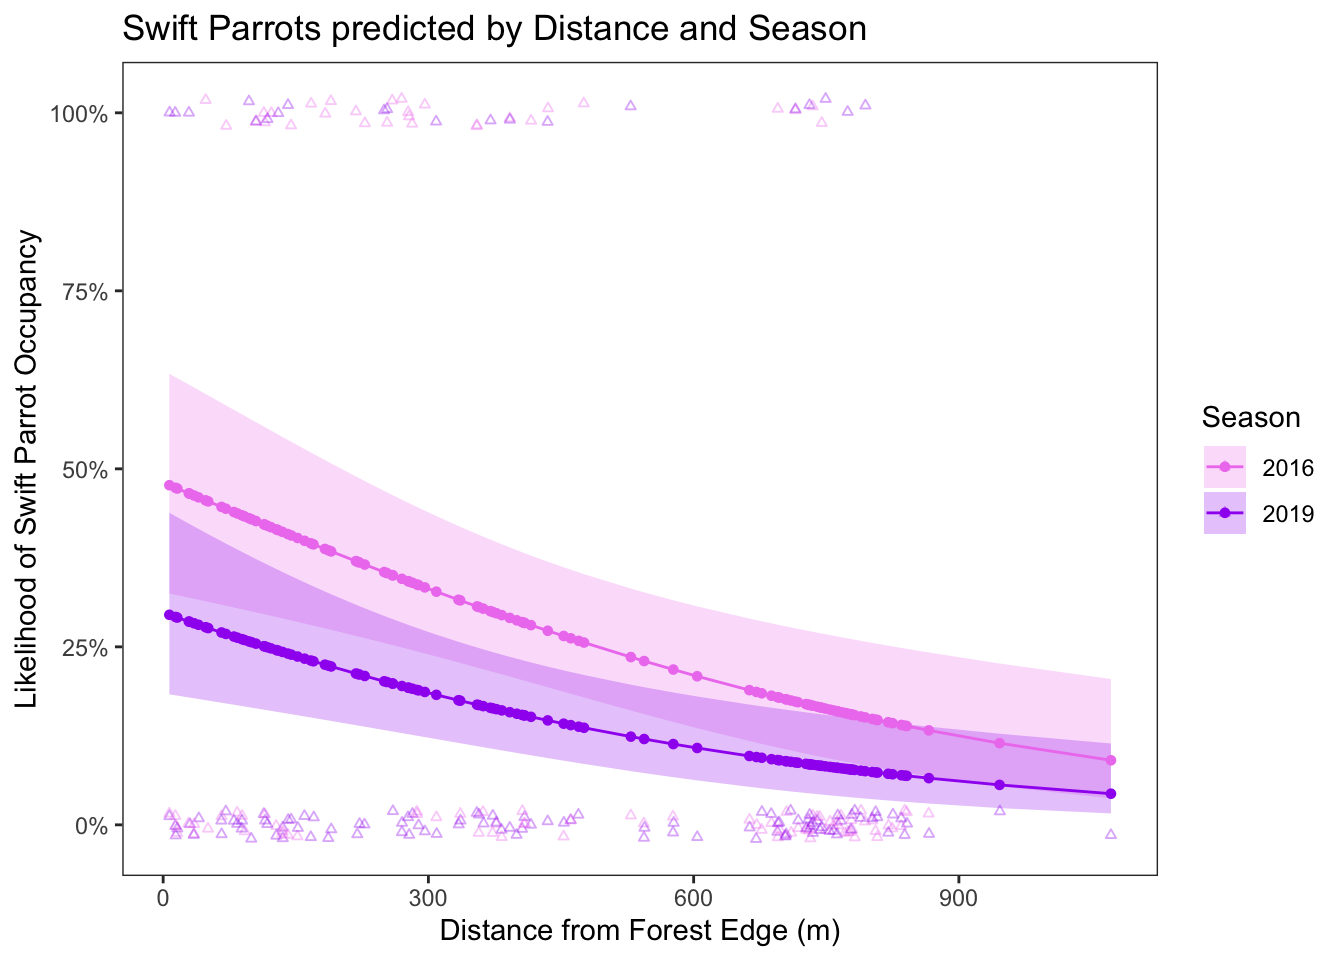
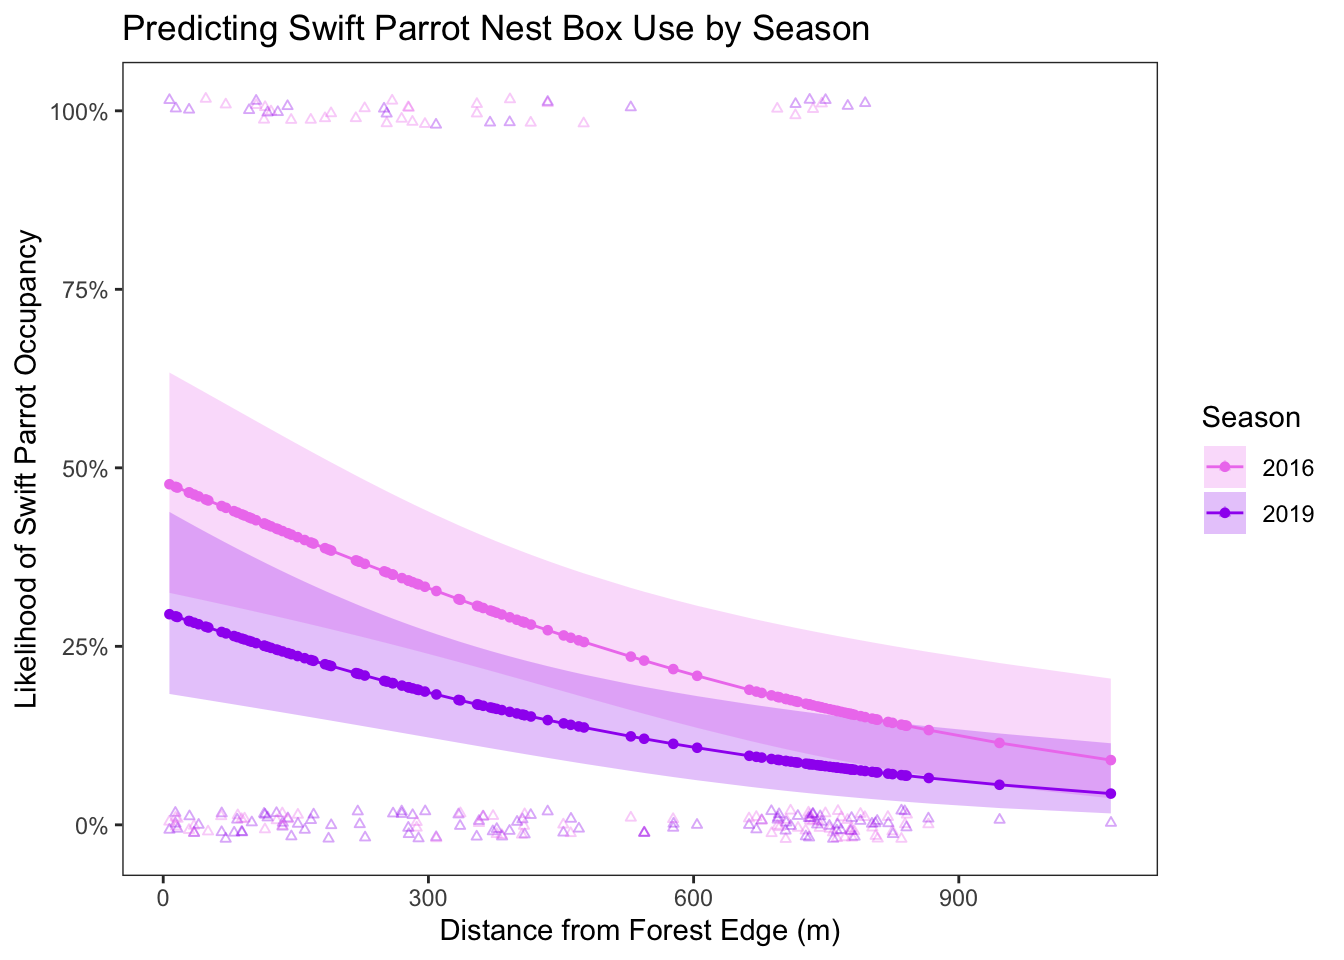
updates

diff --git a/code/final.html b/code/final.html
@@ -159,13 +159,14 @@ pre > code.sourceCode > span > a:first-child::before { text-decoration: underlin
 <span id="cb1-6"><a href="#cb1-6" aria-hidden="true" tabindex="-1"></a><span class="fu">library</span>(ggeffects) <span class="co"># getting model predictions</span></span>
 <span id="cb1-7"><a href="#cb1-7" aria-hidden="true" tabindex="-1"></a><span class="fu">library</span>(scales) <span class="co"># modifying axis labels</span></span>
 <span id="cb1-8"><a href="#cb1-8" aria-hidden="true" tabindex="-1"></a></span>
-<span id="cb1-9"><a href="#cb1-9" aria-hidden="true" tabindex="-1"></a><span class="co"># read in your data here</span></span>
-<span id="cb1-10"><a href="#cb1-10" aria-hidden="true" tabindex="-1"></a>sst <span class="ot">&lt;-</span> <span class="fu">read.csv</span>(<span class="fu">here</span>(<span class="st">"data"</span>, <span class="st">"SST_update2023.csv"</span>))</span>
-<span id="cb1-11"><a href="#cb1-11" aria-hidden="true" tabindex="-1"></a></span>
-<span id="cb1-12"><a href="#cb1-12" aria-hidden="true" tabindex="-1"></a><span class="co"># read in your data here</span></span>
-<span id="cb1-13"><a href="#cb1-13" aria-hidden="true" tabindex="-1"></a>nest_boxes <span class="ot">&lt;-</span>  <span class="fu">read.csv</span>(</span>
-<span id="cb1-14"><a href="#cb1-14" aria-hidden="true" tabindex="-1"></a>  <span class="co"># file path</span></span>
-<span id="cb1-15"><a href="#cb1-15" aria-hidden="true" tabindex="-1"></a>  <span class="fu">here</span>(<span class="st">"data"</span>, <span class="st">"occdist.csv"</span>))</span></code><button title="Copy to Clipboard" class="code-copy-button"><i class="bi"></i></button></pre></div>
+<span id="cb1-9"><a href="#cb1-9" aria-hidden="true" tabindex="-1"></a></span>
+<span id="cb1-10"><a href="#cb1-10" aria-hidden="true" tabindex="-1"></a><span class="co"># read in your data here</span></span>
+<span id="cb1-11"><a href="#cb1-11" aria-hidden="true" tabindex="-1"></a>sst <span class="ot">&lt;-</span> <span class="fu">read.csv</span>(<span class="fu">here</span>(<span class="st">"data"</span>, <span class="st">"SST_update2023.csv"</span>))</span>
+<span id="cb1-12"><a href="#cb1-12" aria-hidden="true" tabindex="-1"></a></span>
+<span id="cb1-13"><a href="#cb1-13" aria-hidden="true" tabindex="-1"></a><span class="co"># read in your data here</span></span>
+<span id="cb1-14"><a href="#cb1-14" aria-hidden="true" tabindex="-1"></a>nest_boxes <span class="ot">&lt;-</span>  <span class="fu">read.csv</span>(</span>
+<span id="cb1-15"><a href="#cb1-15" aria-hidden="true" tabindex="-1"></a>  <span class="co"># file path</span></span>
+<span id="cb1-16"><a href="#cb1-16" aria-hidden="true" tabindex="-1"></a>  <span class="fu">here</span>(<span class="st">"data"</span>, <span class="st">"occdist.csv"</span>))</span></code><button title="Copy to Clipboard" class="code-copy-button"><i class="bi"></i></button></pre></div>
 </div>
 </section>
 <section id="problem-1.-research-writing" class="level1">
@@ -212,11 +213,11 @@ pre > code.sourceCode > span > a:first-child::before { text-decoration: underlin
 <pre><code># A tibble: 5 × 3
    year month mean_monthly_sst
   &lt;dbl&gt; &lt;ord&gt;            &lt;dbl&gt;
-1  2021 Dec               14.4
-2  2018 Oct               18.4
-3  2018 Sep               18.2
-4  2023 Feb               13.0
-5  2022 Mar               13.3</code></pre>
+1  2022 Mar               13.3
+2  2019 Nov               16.8
+3  2021 Feb               13.1
+4  2018 Apr               12.8
+5  2021 Apr               13.1</code></pre>
 </div>
 <div class="sourceCode cell-code" id="cb4"><pre class="sourceCode r code-with-copy"><code class="sourceCode r"><span id="cb4-1"><a href="#cb4-1" aria-hidden="true" tabindex="-1"></a><span class="co"># show the structure of the cleaned data</span></span>
 <span id="cb4-2"><a href="#cb4-2" aria-hidden="true" tabindex="-1"></a><span class="fu">str</span>(sst_clean)</span></code><button title="Copy to Clipboard" class="code-copy-button"><i class="bi"></i></button></pre></div>
@@ -231,31 +232,29 @@ pre > code.sourceCode > span > a:first-child::before { text-decoration: underlin
 <section id="b.-visualize-the-data" class="level2">
 <h2 class="anchored" data-anchor-id="b.-visualize-the-data">b. Visualize the data</h2>
 <div class="cell">
-<div class="sourceCode cell-code" id="cb6"><pre class="sourceCode r code-with-copy"><code class="sourceCode r"><span id="cb6-1"><a href="#cb6-1" aria-hidden="true" tabindex="-1"></a><span class="fu">library</span>(ggplot2)</span>
-<span id="cb6-2"><a href="#cb6-2" aria-hidden="true" tabindex="-1"></a></span>
-<span id="cb6-3"><a href="#cb6-3" aria-hidden="true" tabindex="-1"></a>sst_visual <span class="ot">&lt;-</span> <span class="fu">ggplot</span>(<span class="at">data =</span> sst_clean,  <span class="co"># new data called sst_visual</span></span>
-<span id="cb6-4"><a href="#cb6-4" aria-hidden="true" tabindex="-1"></a>       <span class="fu">aes</span>(<span class="at">x =</span> month, <span class="co"># month on x-axis</span></span>
-<span id="cb6-5"><a href="#cb6-5" aria-hidden="true" tabindex="-1"></a>           <span class="at">y =</span> mean_monthly_sst, <span class="co"># year on y-axis</span></span>
-<span id="cb6-6"><a href="#cb6-6" aria-hidden="true" tabindex="-1"></a>           <span class="at">group =</span> <span class="fu">factor</span>(year), <span class="co"># group by year</span></span>
-<span id="cb6-7"><a href="#cb6-7" aria-hidden="true" tabindex="-1"></a>           <span class="at">color =</span> <span class="fu">factor</span>(year))) <span class="sc">+</span> <span class="co"># color by year</span></span>
-<span id="cb6-8"><a href="#cb6-8" aria-hidden="true" tabindex="-1"></a>  <span class="fu">geom_line</span>() <span class="sc">+</span>                          </span>
-<span id="cb6-9"><a href="#cb6-9" aria-hidden="true" tabindex="-1"></a>  <span class="fu">geom_point</span>() <span class="sc">+</span>                         </span>
-<span id="cb6-10"><a href="#cb6-10" aria-hidden="true" tabindex="-1"></a>  <span class="fu">scale_color_manual</span>(<span class="at">name =</span> <span class="st">"Year"</span>, <span class="co"># manually assign colors by group</span></span>
-<span id="cb6-11"><a href="#cb6-11" aria-hidden="true" tabindex="-1"></a>    <span class="at">values =</span> <span class="fu">c</span>(<span class="st">"2018"</span> <span class="ot">=</span> <span class="st">"#E6E6FA"</span>,</span>
-<span id="cb6-12"><a href="#cb6-12" aria-hidden="true" tabindex="-1"></a>       <span class="st">"2019"</span> <span class="ot">=</span> <span class="st">"#D8BFD8"</span>,</span>
-<span id="cb6-13"><a href="#cb6-13" aria-hidden="true" tabindex="-1"></a>       <span class="st">"2020"</span> <span class="ot">=</span> <span class="st">"#DDA0DD"</span>,</span>
-<span id="cb6-14"><a href="#cb6-14" aria-hidden="true" tabindex="-1"></a>       <span class="st">"2021"</span> <span class="ot">=</span> <span class="st">"#DA70D6"</span>,</span>
-<span id="cb6-15"><a href="#cb6-15" aria-hidden="true" tabindex="-1"></a>       <span class="st">"2022"</span> <span class="ot">=</span> <span class="st">"#BA55D3"</span>,</span>
-<span id="cb6-16"><a href="#cb6-16" aria-hidden="true" tabindex="-1"></a>       <span class="st">"2023"</span> <span class="ot">=</span> <span class="st">"#8A2BE2"</span>)) <span class="sc">+</span></span>
-<span id="cb6-17"><a href="#cb6-17" aria-hidden="true" tabindex="-1"></a>  <span class="fu">labs</span>(<span class="at">x =</span> <span class="st">"Month"</span>, <span class="co"># label the title on x-axis</span></span>
-<span id="cb6-18"><a href="#cb6-18" aria-hidden="true" tabindex="-1"></a>    <span class="at">y =</span> <span class="st">"Mean Monthly Sea Surface Temperature (°C)"</span>) <span class="sc">+</span> <span class="co"># label y-axis title</span></span>
-<span id="cb6-19"><a href="#cb6-19" aria-hidden="true" tabindex="-1"></a>  <span class="fu">theme_minimal</span>() <span class="sc">+</span>                             </span>
-<span id="cb6-20"><a href="#cb6-20" aria-hidden="true" tabindex="-1"></a>  <span class="fu">theme</span>(<span class="at">legend.position =</span> <span class="fu">c</span>(<span class="fl">0.15</span>, <span class="fl">0.65</span>), <span class="co"># position legend lower left</span></span>
-<span id="cb6-21"><a href="#cb6-21" aria-hidden="true" tabindex="-1"></a>        <span class="at">plot.background =</span> <span class="fu">element_rect</span>(<span class="at">fill =</span> <span class="st">"white"</span>), <span class="co"># background white</span></span>
-<span id="cb6-22"><a href="#cb6-22" aria-hidden="true" tabindex="-1"></a>        <span class="at">panel.grid.major =</span> <span class="fu">element_blank</span>(),   <span class="co"># remove major grid lines</span></span>
-<span id="cb6-23"><a href="#cb6-23" aria-hidden="true" tabindex="-1"></a>        <span class="at">panel.grid.minor =</span> <span class="fu">element_blank</span>()) <span class="co">#remove minor grid lines</span></span>
-<span id="cb6-24"><a href="#cb6-24" aria-hidden="true" tabindex="-1"></a></span>
-<span id="cb6-25"><a href="#cb6-25" aria-hidden="true" tabindex="-1"></a>sst_visual</span></code><button title="Copy to Clipboard" class="code-copy-button"><i class="bi"></i></button></pre></div>
+<div class="sourceCode cell-code" id="cb6"><pre class="sourceCode r code-with-copy"><code class="sourceCode r"><span id="cb6-1"><a href="#cb6-1" aria-hidden="true" tabindex="-1"></a>sst_visual <span class="ot">&lt;-</span> <span class="fu">ggplot</span>(<span class="at">data =</span> sst_clean,  <span class="co"># new data called sst_visual</span></span>
+<span id="cb6-2"><a href="#cb6-2" aria-hidden="true" tabindex="-1"></a>       <span class="fu">aes</span>(<span class="at">x =</span> month, <span class="co"># month on x-axis</span></span>
+<span id="cb6-3"><a href="#cb6-3" aria-hidden="true" tabindex="-1"></a>           <span class="at">y =</span> mean_monthly_sst, <span class="co"># year on y-axis</span></span>
+<span id="cb6-4"><a href="#cb6-4" aria-hidden="true" tabindex="-1"></a>           <span class="at">group =</span> <span class="fu">factor</span>(year), <span class="co"># group by year</span></span>
+<span id="cb6-5"><a href="#cb6-5" aria-hidden="true" tabindex="-1"></a>           <span class="at">color =</span> <span class="fu">factor</span>(year))) <span class="sc">+</span> <span class="co"># color by year</span></span>
+<span id="cb6-6"><a href="#cb6-6" aria-hidden="true" tabindex="-1"></a>  <span class="fu">geom_line</span>() <span class="sc">+</span>                          </span>
+<span id="cb6-7"><a href="#cb6-7" aria-hidden="true" tabindex="-1"></a>  <span class="fu">geom_point</span>() <span class="sc">+</span>                         </span>
+<span id="cb6-8"><a href="#cb6-8" aria-hidden="true" tabindex="-1"></a>  <span class="fu">scale_color_manual</span>(<span class="at">name =</span> <span class="st">"Year"</span>, <span class="co"># manually assign colors by group</span></span>
+<span id="cb6-9"><a href="#cb6-9" aria-hidden="true" tabindex="-1"></a>    <span class="at">values =</span> <span class="fu">c</span>(<span class="st">"2018"</span> <span class="ot">=</span> <span class="st">"#E6E6FA"</span>,</span>
+<span id="cb6-10"><a href="#cb6-10" aria-hidden="true" tabindex="-1"></a>       <span class="st">"2019"</span> <span class="ot">=</span> <span class="st">"#D8BFD8"</span>,</span>
+<span id="cb6-11"><a href="#cb6-11" aria-hidden="true" tabindex="-1"></a>       <span class="st">"2020"</span> <span class="ot">=</span> <span class="st">"#DDA0DD"</span>,</span>
+<span id="cb6-12"><a href="#cb6-12" aria-hidden="true" tabindex="-1"></a>       <span class="st">"2021"</span> <span class="ot">=</span> <span class="st">"#DA70D6"</span>,</span>
+<span id="cb6-13"><a href="#cb6-13" aria-hidden="true" tabindex="-1"></a>       <span class="st">"2022"</span> <span class="ot">=</span> <span class="st">"#BA55D3"</span>,</span>
+<span id="cb6-14"><a href="#cb6-14" aria-hidden="true" tabindex="-1"></a>       <span class="st">"2023"</span> <span class="ot">=</span> <span class="st">"#8A2BE2"</span>)) <span class="sc">+</span></span>
+<span id="cb6-15"><a href="#cb6-15" aria-hidden="true" tabindex="-1"></a>  <span class="fu">labs</span>(<span class="at">x =</span> <span class="st">"Month"</span>, <span class="co"># label the title on x-axis</span></span>
+<span id="cb6-16"><a href="#cb6-16" aria-hidden="true" tabindex="-1"></a>    <span class="at">y =</span> <span class="st">"Mean Monthly Sea Surface Temperature (°C)"</span>) <span class="sc">+</span> <span class="co"># label y-axis title</span></span>
+<span id="cb6-17"><a href="#cb6-17" aria-hidden="true" tabindex="-1"></a>  <span class="fu">theme_minimal</span>() <span class="sc">+</span>                             </span>
+<span id="cb6-18"><a href="#cb6-18" aria-hidden="true" tabindex="-1"></a>  <span class="fu">theme</span>(<span class="at">legend.position =</span> <span class="fu">c</span>(<span class="fl">0.15</span>, <span class="fl">0.65</span>), <span class="co"># position legend lower left</span></span>
+<span id="cb6-19"><a href="#cb6-19" aria-hidden="true" tabindex="-1"></a>        <span class="at">plot.background =</span> <span class="fu">element_rect</span>(<span class="at">fill =</span> <span class="st">"white"</span>), <span class="co"># background white</span></span>
+<span id="cb6-20"><a href="#cb6-20" aria-hidden="true" tabindex="-1"></a>        <span class="at">panel.grid.major =</span> <span class="fu">element_blank</span>(),   <span class="co"># remove major grid lines</span></span>
+<span id="cb6-21"><a href="#cb6-21" aria-hidden="true" tabindex="-1"></a>        <span class="at">panel.grid.minor =</span> <span class="fu">element_blank</span>()) <span class="co">#remove minor grid lines</span></span>
+<span id="cb6-22"><a href="#cb6-22" aria-hidden="true" tabindex="-1"></a></span>
+<span id="cb6-23"><a href="#cb6-23" aria-hidden="true" tabindex="-1"></a>sst_visual</span></code><button title="Copy to Clipboard" class="code-copy-button"><i class="bi"></i></button></pre></div>
 <div class="cell-output-display">
 <div>
 <figure class="figure">
@@ -407,14 +406,14 @@ mod3  2 236.3744
 mod1  1 238.8318</code></pre>
 </div>
 </div>
-<p>The best model as determined by Akaike’s Information Criterion (AIC) is the saturated model on season (year) and edge distance to the forest for Swift Parrot’s occupancy. This model suggests that the year the nesting occured and the distance influenced whether the Swift Parrots used the boxes.</p>
+<p>The best model as determined by Akaike’s Information Criterion (AIC) is the saturated model on season (year) and edge distance to the forest for Swift Parrot’s occupancy. This model suggests that the year the nesting occurred as well as the distance were part of the influence whether the Swift Parrots used the nest boxes.</p>
 </section>
 <section id="h.-visualize-the-model-predictions" class="level2">
 <h2 class="anchored" data-anchor-id="h.-visualize-the-model-predictions">h. Visualize the model predictions</h2>
 <div class="cell">
-<div class="sourceCode cell-code" id="cb14"><pre class="sourceCode r code-with-copy"><code class="sourceCode r"><span id="cb14-1"><a href="#cb14-1" aria-hidden="true" tabindex="-1"></a><span class="co"># make new object for model predictions</span></span>
+<div class="sourceCode cell-code" id="cb14"><pre class="sourceCode r code-with-copy"><code class="sourceCode r"><span id="cb14-1"><a href="#cb14-1" aria-hidden="true" tabindex="-1"></a><span class="co"># make model prediction as new object</span></span>
 <span id="cb14-2"><a href="#cb14-2" aria-hidden="true" tabindex="-1"></a>model_prediction <span class="ot">&lt;-</span> <span class="fu">ggpredict</span>(mod2, </span>
-<span id="cb14-3"><a href="#cb14-3" aria-hidden="true" tabindex="-1"></a>                              <span class="at">terms =</span> <span class="fu">c</span>(<span class="st">"edge_distance [all]"</span>, <span class="st">"season"</span>)) <span class="co"># season 2016 and 2019</span></span>
+<span id="cb14-3"><a href="#cb14-3" aria-hidden="true" tabindex="-1"></a>                              <span class="at">terms =</span> <span class="fu">c</span>(<span class="st">"edge_distance [all]"</span>, <span class="st">"season"</span>)) <span class="co"># breeding season from 2016 and 2019</span></span>
 <span id="cb14-4"><a href="#cb14-4" aria-hidden="true" tabindex="-1"></a></span>
 <span id="cb14-5"><a href="#cb14-5" aria-hidden="true" tabindex="-1"></a><span class="co"># convert predictions to a data frame</span></span>
 <span id="cb14-6"><a href="#cb14-6" aria-hidden="true" tabindex="-1"></a>model_df <span class="ot">&lt;-</span> <span class="fu">as.data.frame</span>(model_prediction) <span class="sc">|&gt;</span></span>
@@ -445,7 +444,7 @@ mod1  1 238.8318</code></pre>
 <span id="cb14-31"><a href="#cb14-31" aria-hidden="true" tabindex="-1"></a>  <span class="fu">labs</span>(</span>
 <span id="cb14-32"><a href="#cb14-32" aria-hidden="true" tabindex="-1"></a>    <span class="at">x =</span> <span class="st">"Distance from Forest Edge (m)"</span>,</span>
 <span id="cb14-33"><a href="#cb14-33" aria-hidden="true" tabindex="-1"></a>    <span class="at">y =</span> <span class="st">"Likelihood of Swift Parrot Occupancy"</span>,</span>
-<span id="cb14-34"><a href="#cb14-34" aria-hidden="true" tabindex="-1"></a>    <span class="at">title =</span> <span class="st">"Swift Parrots predicted by Distance and Season"</span></span>
+<span id="cb14-34"><a href="#cb14-34" aria-hidden="true" tabindex="-1"></a>    <span class="at">title =</span> <span class="st">"Predicting Swift Parrot Nest Box Use by Season"</span></span>
 <span id="cb14-35"><a href="#cb14-35" aria-hidden="true" tabindex="-1"></a>  ) <span class="sc">+</span></span>
 <span id="cb14-36"><a href="#cb14-36" aria-hidden="true" tabindex="-1"></a></span>
 <span id="cb14-37"><a href="#cb14-37" aria-hidden="true" tabindex="-1"></a>  <span class="fu">theme_bw</span>() <span class="sc">+</span></span>
@@ -464,7 +463,7 @@ mod1  1 238.8318</code></pre>
 </section>
 <section id="i.-write-a-caption-for-your-figure." class="level2">
 <h2 class="anchored" data-anchor-id="i.-write-a-caption-for-your-figure.">i. Write a caption for your figure.</h2>
-<p><strong>Figure 1. Swift Parrots have higher likehood for box occupancy when close to forest edge:</strong></p>
+<p><strong>Figure 1. Swift Parrots have higher likelihood for box occupancy when close to forest edge:</strong> Extracted data from the DRYAD digital repository (Saunders DL, Mawson PR, Dawson R,2020). Lines show predictions from a saturated generalized linear model with shaded ribbons indicating 95% confidence intervals, differentiated by season through the use of violet for 2016 and purple for 2019. The circular points represent the likelihood of a Swift Parrot occupancy in a nest box according to the distance from the forest edge, while triangular points represent the binary data representing occupancy.</p>
 </section>
 <section id="j.-calculate-model-predictions" class="level2">
 <h2 class="anchored" data-anchor-id="j.-calculate-model-predictions">j. Calculate model predictions</h2>
@@ -481,6 +480,10 @@ mod1  1 238.8318</code></pre>
 <p>The similarities I see between the two is the up and down motion from the affective visualization referencing the range of chronic pain into a wave or rhythmic motion just as the exploratory has two values being high and low values in th jitter plot.</p>
 <p>The relationships are different as the affective doesn’t allow for the information to come across neatly like it does for the jitter plot. This could have helped provide more insight by depicting the variables as in when a yoga session was done or not and how it related to the chronic pain felt through that day,</p>
 <p>The feedback received through written note was what I mentioned previously how there was not a clear data being represented through the affective visualization as it was done through the exploratory option. At the moment, I would try to implement changes by having perhaps a mountain as then the ocean, despite its turbulent waves, could represent the low pain days when yoga was practiced (a journey itself) versus the heights of the mountains depicting days where I did not practice yoga and experienced high pain, This new ideal attempt reminds me of the famous Japanese painting titled “The Wave”.</p>
+<ol start="2" type="a">
+<li>Sharing your affective visualization</li>
+</ol>
+<p>Workshop 10, I was not present to share my affective visualization though after seeing other classmates I see how I would have changed mine to be more technical rather than artistic. I took the artist approach to visualization too literally.</p>
 </section>
 </section>
 
